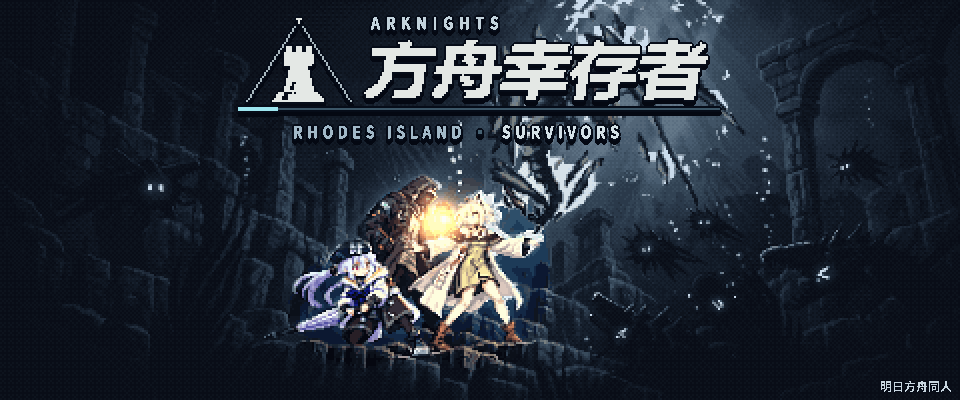
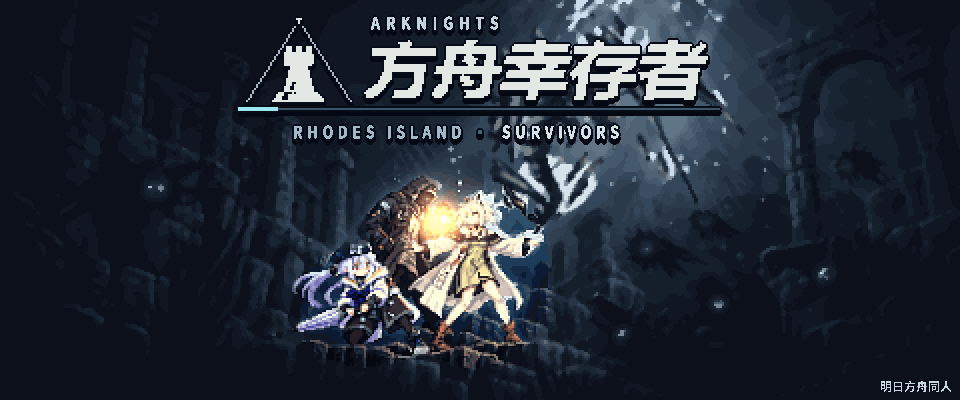
封面 C2L 去脏：背景去掉有序抖动，改中值去噪 + 收 160 色消色带；人物轮廓光减弱（用户 11-07 嫌脏）

diff --git a/art/promo/itch/cover_g/build_cover_g_c2l.py b/art/promo/itch/cover_g/build_cover_g_c2l.py
@@ -93,7 +93,7 @@ def grade(a, figs, lamp):
     allm = np.maximum.reduce(list(ms.values()))
     edge = np.asarray(Image.fromarray((L * 255).astype(np.uint8)).filter(ImageFilter.FIND_EDGES), np.float32) / 255
     ring = np.clip(allm * 2, 0, 1) * (1 - np.clip(allm * 1.4 - 0.4, 0, 1))
-    out = out + (np.clip(edge * 2.5, 0, 1) * ring * 0.35)[..., None] * CO.hx(s["rim"])
+    out = out + (np.clip(edge * 2.5, 0, 1) * ring * 0.15)[..., None] * CO.hx(s["rim"])
     # 灯火亮核 + 暖晕：半径按成品宽归一（与 C2 相同的相对大小）
     d2 = ((xx - lamp[0]) ** 2 + (yy - lamp[1]) ** 2) / (W * W) * (W / 630) ** 2 * (630 / W) ** 2
     warm = CO.hx(s["lamp"])
@@ -112,11 +112,10 @@ def pixelize2(img, figm, cell):
     small = img.resize((w, h), Image.BOX)
     sharp = img.filter(ImageFilter.UnsharpMask(radius=1.2, percent=60, threshold=2)).resize((w, h), Image.BOX)
     fm = np.asarray(Image.fromarray((figm * 255).astype(np.uint8)).resize((w, h), Image.BOX), np.float32) / 255 > 0.5
-    a = np.asarray(small, np.float32)
-    th = np.tile(BAYER, (h // 4 + 1, w // 4 + 1))[:h, :w]
-    ad = np.clip(a + th[..., None] * 10.0, 0, 255).astype(np.uint8)
+    # 11-07 用户嫌脏：不再抖动（点阵本身就是颗粒），改为背景先 3×3 中值去噪、多收颜色（160）来消色带
+    ad = np.asarray(small.filter(ImageFilter.MedianFilter(3)))
     q = lambda im, n, mask=None: np.asarray(Image.fromarray(im).quantize(colors=n, method=Image.Quantize.MAXCOVERAGE, dither=Image.Dither.NONE, kmeans=3).convert("RGB"))
-    bgq = q(ad, 96)
+    bgq = q(ad, 160)
     fa = np.asarray(sharp)
     fq = q(fa, 96)
     out = bgq.copy()

diff --git a/art/promo/itch/cover_g/handoff.md b/art/promo/itch/cover_g/handoff.md
@@ -65,7 +65,7 @@
 ## C2L（11-07，用户：「C2，但是暖点只保留灯」+「修复一下色彩断层和人物细节」）
 脚本 `build_cover_g_c2l.py`（参数同 C2，水月 keep 0.95→0.3、高饱和暖色保留 0.4→0.12，暖色只剩提灯）。
 - 人物：不走压缩色阶，按原亮度做冷灰（只降饱和）再混回原色，明暗层次保留；像素化前轻锐化，单独收 96 色、不抖动。
-- 背景：4×4 有序抖动后收 96 色，去掉灯光晕 / 渐变的色带。
+- 背景：3×3 中值去噪后收 160 色、不抖动（11-07 用户嫌抖动版脏），去掉灯光晕 / 渐变的色带；人物外圈轮廓光 0.35→0.15。
 - 三张成品：`cover_G_A2C2L_itch_cover_630x500.png`、`cover_G_A2C2L_itch_banner_960x400.png`、`cover_G_A2C2L_toy_poster_1200x900.png`（Toy 直接 1200×900 做，像素格 2，logo / 标注 ×2）。
 - 右下角加「明日方舟同人」（11-07 用户：「非官方去掉」）。横幅生图是封面生图外扩：模板匹配测得 = 封面生图 × 0.75 + (684, 0)，人物椭圆按此换算。
 - 生图原图在 build/imagegen/itchg_A、itchg_Aw（不进 git，从 sharp-kare 工作树拷来）。
